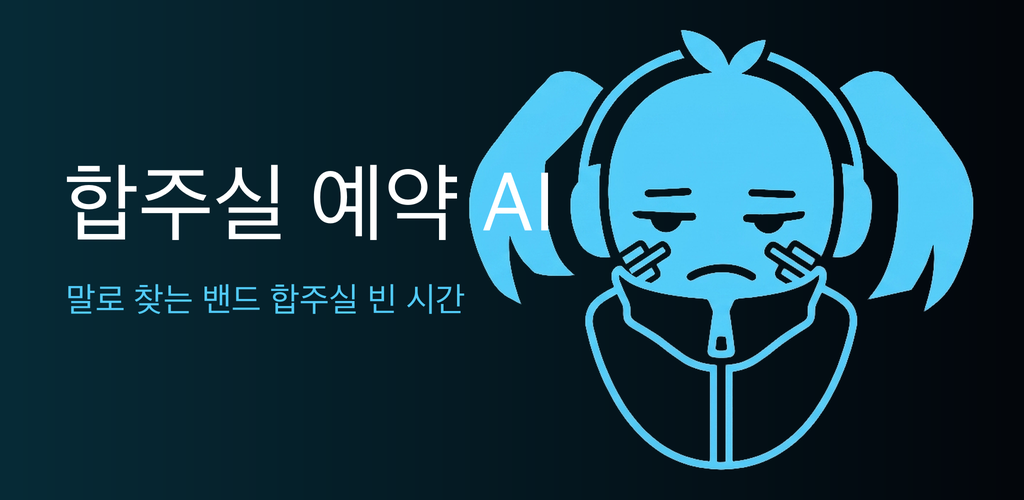
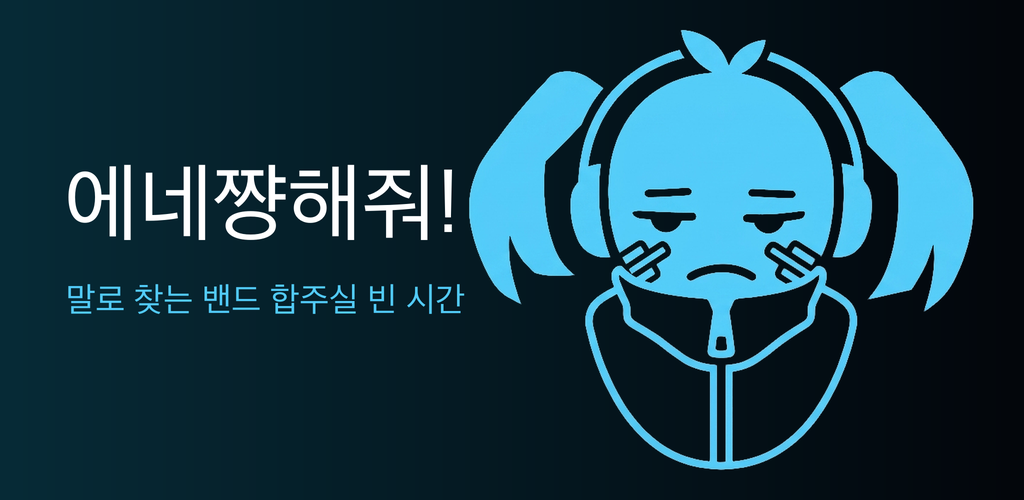
feat: 앱 이름을 '에네쨩해줘!'로 변경 (versionCode 20)
- 런처 라벨·로그인 히어로·채팅 헤더·신고 메일 제목을 새 이름으로 교체
- 스토어 그래픽(피처 1024x500) 타이틀 문구 재생성
- 스토어 문구·릴리스 문서의 앱 이름 갱신
- CI versionCode 오프셋을 100으로 올려 수동 업로드 번호와 충돌 방지

Changed region(s): [[0.0625, 0.33, 0.5625, 0.48]]

diff --git a/app/src/main/java/com/enezzang/yatte/ui/SettingsScreen.kt b/app/src/main/java/com/enezzang/yatte/ui/SettingsScreen.kt
@@ -179,7 +179,7 @@ fun SettingsScreen(
         val uriHandler = LocalUriHandler.current
         TextButton(onClick = {
             // mailto는 공백을 %20으로 받아야 해서 URLEncoder의 '+'를 바꿔 준다.
-            val subject = URLEncoder.encode("[합주실 예약 AI] 부적절한 응답 신고", "UTF-8")
+            val subject = URLEncoder.encode("[에네쨩해줘!] 부적절한 응답 신고", "UTF-8")
                 .replace("+", "%20")
             uriHandler.openUri("mailto:$REPORT_EMAIL?subject=$subject")
         }) {

diff --git a/app/src/main/java/com/enezzang/yatte/ui/EnezzangYatteScreen.kt b/app/src/main/java/com/enezzang/yatte/ui/EnezzangYatteScreen.kt
@@ -177,7 +177,7 @@ private fun ChatHeader(
             .padding(start = EnezzangYatteTheme.gutter, end = 4.dp, top = 10.dp, bottom = 10.dp),
     ) {
         Column(modifier = Modifier.weight(1f)) {
-            Text("합주실 예약 AI", style = MaterialTheme.typography.headlineMedium)
+            Text("에네쨩해줘!", style = MaterialTheme.typography.headlineMedium)
             Text(
                 text = modelLabel,
                 style = MaterialTheme.typography.labelMedium,

diff --git a/app/src/main/java/com/enezzang/yatte/ui/AuthScreen.kt b/app/src/main/java/com/enezzang/yatte/ui/AuthScreen.kt
@@ -70,7 +70,7 @@ fun AuthScreen(
     ) {
         Spacer(Modifier.height(24.dp))
 
-        Text("합주실 예약 AI", style = MaterialTheme.typography.headlineLarge)
+        Text("에네쨩해줘!", style = MaterialTheme.typography.headlineLarge)
         Text(
             text = "말로 물어보면 서울 합주실의 빈 시간을 찾아\n예약 링크까지 바로 받아요.",
             style = MaterialTheme.typography.bodyLarge,

diff --git a/play/make-graphics.py b/play/make-graphics.py
@@ -109,7 +109,7 @@ def make_feature(im):
     img.paste(ch, (W * SS - ch.width - 50 * SS, (H * SS - target_h) // 2), ch)
     title = korean_font(86 * SS)
     sub = korean_font(34 * SS)
-    dr.text((64 * SS, 160 * SS), '합주실 예약 AI', font=title, fill='#FFFFFF')
+    dr.text((64 * SS, 160 * SS), '에네쨩해줘!', font=title, fill='#FFFFFF')
     dr.text((66 * SS, 282 * SS), '말로 찾는 밴드 합주실 빈 시간', font=sub, fill='#52CBF8')
     img.resize((W, H), Image.LANCZOS).save('feature-1024x500.png')
 

diff --git a/play/store-listing.md b/play/store-listing.md
@@ -1,7 +1,7 @@
-# 플레이스토어 등록 문구 — 합주실 예약 AI
+# 플레이스토어 등록 문구 — 에네쨩해줘!
 
 - 패키지: `com.enezzang.yatte`
-- 기기 아이콘 라벨: "합주실 예약"
+- 기기 아이콘 라벨: "에네쨩해줘!" (`strings.xml`의 `app_name`)
 - 백엔드: 기존 subculture-ground 백엔드(`nest.kanenashitogeari.com`)를 그대로 사용 (이미 운영 중).
 - 연락 이메일: cagameku3842@gmail.com (변경 가능)
 - 개인정보처리방침 URL: https://nuxt.kanenashitogeari.com/bandroom-privacy.html
@@ -9,6 +9,11 @@
 ---
 
 ## 1. 앱 이름 (스토어 제목, 30자 이하)
+
+**확정: `에네쨩해줘!` (7자)** — 사용자 지정.
+⚠ 주의: '에네'는 원작 캐릭터명이라 스토어 제목 사용은 IP 신고로 반려·삭제될 수 있는 리스크가 있다(인지하고 선택함). 문제가 생기면 아래 후보로 교체.
+
+(이하 기존 후보안 — 참고용)
 
 | 안 | 제목 | 글자수 |
 |---|---|---|
@@ -33,7 +38,7 @@
 ## 3. 전체 설명 (1안, 약 1,200자 / 한도 4,000자)
 
 ```
-합주실 예약 AI는 서울의 합주실 빈 시간을 AI 채팅으로 찾아주는 앱입니다.
+에네쨩해줘!는 서울의 합주실 빈 시간을 AI 채팅으로 찾아주는 앱입니다.
 
 여러 합주실 예약 페이지를 하나씩 열어 빈 시간을 확인하는 대신, 채팅으로 조건을 말하면 됩니다. "이번 주 토요일 저녁, 홍대 근처 합주실 비어 있는 곳 알려줘"처럼 물어보면, 앱이 실시간 빈 시간을 조회해 날짜와 시간이 미리 선택된 네이버 예약 링크를 알려 드립니다. 링크를 열어 네이버에서 직접 예약을 확정하면 됩니다.
 

diff --git a/RELEASE.md b/RELEASE.md
@@ -1,6 +1,6 @@
-# 플레이스토어 첫 발매 체크리스트 — 합주실 예약 AI
+# 플레이스토어 첫 발매 체크리스트 — 에네쨩해줘!
 
-> 앱: "합주실 예약 AI" (기기 아이콘 라벨 "합주실 예약"), 패키지 `com.enezzang.yatte`
+> 앱: "에네쨩해줘!" (기기 아이콘 라벨 동일), 패키지 `com.enezzang.yatte`
 > 백엔드: **기존 subculture-ground 백엔드를 그대로 사용** — `https://nest.kanenashitogeari.com` (이미 운영 중, Jenkins 자동 배포).
 > 개발자 연락 이메일: cagameku3842@gmail.com (변경 가능)
 
@@ -48,7 +48,7 @@
 
 ## 4) 콘솔에서 앱 만들기
 
-- [ ] 앱 이름: **합주실 예약 AI**
+- [ ] 앱 이름: **에네쨩해줘!**
 - [ ] 기본 언어: **한국어(ko)**
 - [ ] 앱/게임: **앱**
 - [ ] 유료/무료: **무료** (무료→유료 전환은 나중에 불가하니 확정)
